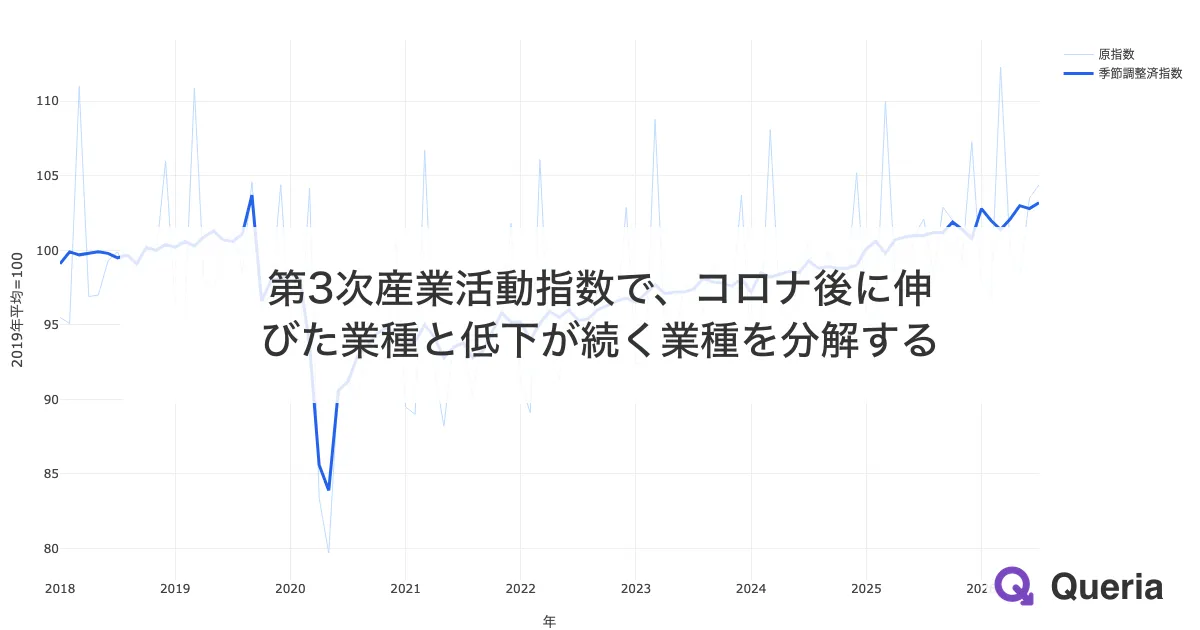
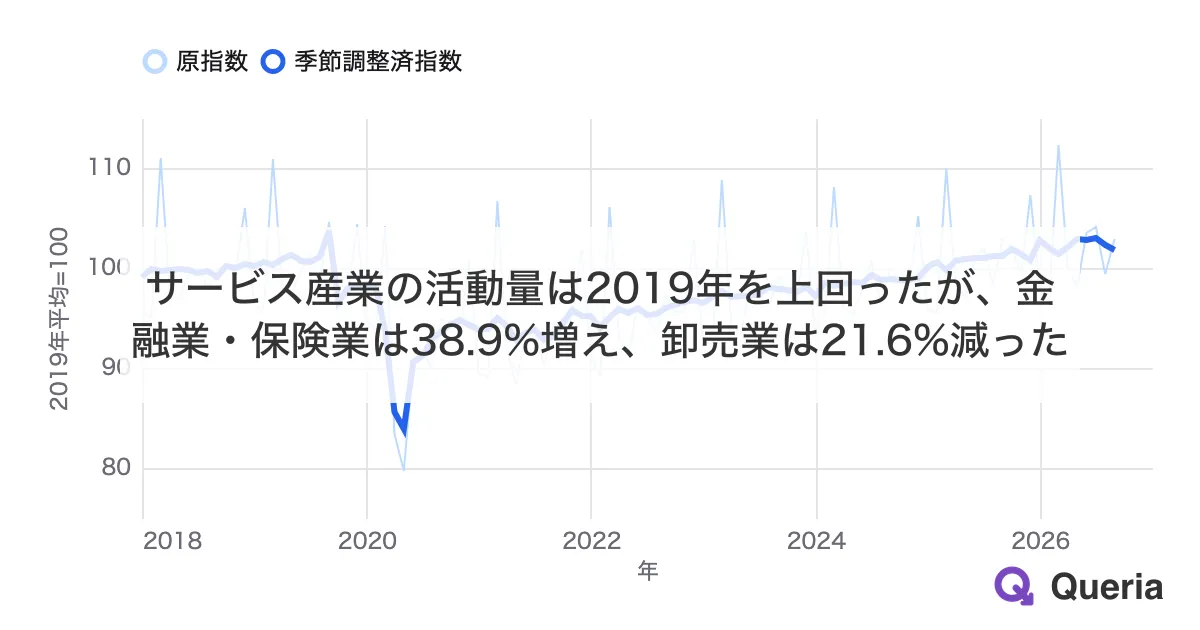
fix(showcase): 第3次産業活動指数の記事を2026年9月分まで更新
直近12か月を2025年10月〜2026年9月に延ばし、業種別の変化率・寄与・季節調整済指数の最新値・OG 画像を新しい値に合わせた。過去月の遡及改定も反映している。

diff --git a/content/showcase/tertiary-industry-divergence/index.md b/content/showcase/tertiary-industry-divergence/index.md
@@ -1,8 +1,8 @@
 ---
-title: サービス産業の活動量は2019年を上回ったが、金融業・保険業は37.0%増え、卸売業は21.3%減った
-description: 第3次産業活動指数の直近12か月（2025年8月〜2026年7月）は2019年平均を1.9%上回りました。業種別では金融業・保険業が37.0%増、卸売業は21.3%減で、13業種のうち2019年を上回るのは5業種です。
+title: サービス産業の活動量は2019年を上回ったが、金融業・保険業は38.9%増え、卸売業は21.6%減った
+description: 第3次産業活動指数の直近12か月（2025年10月〜2026年9月）は2019年平均を2.0ポイント上回りました。業種別では金融業・保険業が38.9%増、卸売業は21.6%減で、13業種のうち2019年を上回るのは5業種です。
 publishedAt: 2026-07-21
-updatedAt: 2026-11-21
+updatedAt: 2026-11-26
 author:
   name: UD
   url: https://udus.dev
@@ -24,15 +24,15 @@ sources:
     publisher: 経済産業省
 agentHint: 宿泊業・飲食サービス業の季節調整済指数を2018年以降の月次で出して。底がいつで直近どこまで戻ったかを、下がり続ける卸売業と並べて
 socialAnnounce: |-
-  経済産業省の第3次産業活動指数を103か月分数えました。
+  経済産業省の第3次産業活動指数の105か月分を集計しました。
 
-  直近12か月の全体は2019年平均を超えましたが、金融業・保険業が37.0%増の一方、卸売業は21.3%減でした。
+  直近12か月の全体は2019年平均を超えましたが、金融業・保険業が38.9%増の一方、卸売業は21.6%減でした。
   Queriaは行政のオープンデータを整えて公開しています。
 ---
 
-経済産業省の[第3次産業活動指数](https://www.meti.go.jp/statistics/tyo/sanzi/index.html)で、サービス産業全体の直近12か月（2025年8月〜2026年7月）の活動量は、2019年平均を1.9ポイント上回りました。13業種のうち2019年を上回っているのは5業種で、金融業・保険業は37.0%増、情報通信業は17.2%増です。卸売業・小売業は14.5%減で、2021年から4年続けて下がっています。その中でも卸売業は21.3%減、小売業は6.1%減でした。
+経済産業省の[第3次産業活動指数](https://www.meti.go.jp/statistics/tyo/sanzi/index.html)で、サービス産業全体の直近12か月（2025年10月〜2026年9月）の活動量は、2019年平均を2.0ポイント上回りました。13業種のうち2019年を上回っているのは5業種で、金融業・保険業は38.9%増、情報通信業は17.4%増です。卸売業・小売業は14.6%減で、2021年から4年続けて下がっています。その中でも卸売業は21.6%減、小売業は6.1%減でした。
 
-第3次産業活動指数は、サービス産業の活動量を月次で集計した統計です。全体値は2020年に大きく下がったあと回復しましたが、業種別に分けると、コロナで大きく下がった業種と、いま水準が低い業種は一致しません。以下の数値は、2018年1月から2026年7月までの103か月分の業種別の系列から求めたものです。
+第3次産業活動指数は、サービス産業の活動量を月次で集計した統計です。全体値は2020年に大きく下がったあと回復しましたが、業種別に分けると、コロナで大きく下がった業種と、いま水準が低い業種は一致しません。以下の数値は、2018年1月から2026年9月までの105か月分の業種別の系列から求めたものです。
 
 ## 13業種のウエイトは、卸売業・小売業だけで全体の4分の1近くを占める
 
@@ -41,7 +41,7 @@ socialAnnounce: |-
 Queriaのデータセットには大分類から細かい品目までが収録されています。このうち日本標準産業分類に対応した13業種と、その合計である「第3次産業総合」を使います。経済産業省が主系列としているのは日本標準産業分類を組み替えた10業種で、13業種は参考系列として公表されているものです。各業種には産業規模に応じたウエイトが与えられ、合計が10000になります。ウエイトは全体値を計算するときの重みであると同時に、その業種がサービス産業に占める大きさの目安にもなります。
 
 ```sql
-WITH j AS (SELECT item_name, weight, year_month, index_value FROM meti.main.tertiary_industry_activity_index WHERE series_type = 'original' AND item_code LIKE 'J%' AND item_code <> 'J000000I') SELECT item_name AS 業種, CAST(weight AS INTEGER) AS ウエイト, ROUND(AVG(CASE WHEN year_month BETWEEN '202508' AND '202607' THEN index_value END) / AVG(CASE WHEN year_month BETWEEN '201901' AND '201912' THEN index_value END) * 100 - 100, 1) AS '2019年平均比（%）' FROM j GROUP BY 1, weight ORDER BY weight DESC
+WITH j AS (SELECT item_name, weight, year_month, index_value FROM meti.main.tertiary_industry_activity_index WHERE series_type = 'original' AND item_code LIKE 'J%' AND item_code <> 'J000000I') SELECT item_name AS 業種, CAST(weight AS INTEGER) AS ウエイト, ROUND(AVG(CASE WHEN year_month BETWEEN '202510' AND '202609' THEN index_value END) / AVG(CASE WHEN year_month BETWEEN '201901' AND '201912' THEN index_value END) * 100 - 100, 1) AS '2019年平均比（%）' FROM j GROUP BY 1, weight ORDER BY weight DESC
 ```
 
 ウエイトは業種によって大きく異なります。卸売業・小売業だけで全体の4分の1近くを占め、最小の複合サービス事業とは3桁の開きがあります。
@@ -60,7 +60,7 @@ SELECT item_name AS 業種, ROUND(AVG(CASE WHEN year = 2019 THEN index_value END
 
 以降の数値は、すべての系列を2019年（暦年）の平均を100として基準化し直した水準です。
 
-## 季節調整済指数の底は2020年5月の83.9で、2026年7月は103.2
+## 季節調整済指数の底は2020年5月の83.9で、2026年9月は101.8
 
 このデータには、系列種別（`series_type`）として原指数（`original`）と季節調整済指数（`seasonally_adjusted`）の2つが収録されています。原指数は観測されたままの値で、季節調整済指数はそこから毎年繰り返す季節変動を取り除いた値です。全体値で両者を並べました。
 
@@ -162,7 +162,7 @@ SELECT item_name AS 業種, ROUND(AVG(CASE WHEN year = 2019 THEN index_value END
 
 薄い線の原指数は毎月上下に振れており、前月と比較しても、水準が変わったのか季節による変動なのかを判断できません。濃い線の季節調整済指数はこの振れを取り除いてあり、水準の変化だけが残ります。
 
-季節調整済指数で見ると、底は2020年5月の83.9でした。2019年平均より16.1%低い水準です。その後は緩やかに回復し、直近の2026年7月は103.2と、2019年平均を上回っています。
+季節調整済指数で見ると、底は2020年5月の83.9でした。2019年平均より16.1%低い水準です。その後は緩やかに回復し、直近の2026年9月は101.8と、2019年平均を上回っています。
 
 ここで使っている全体値は、業種別の季節調整済指数を加重平均した「第3次産業総合」（`K1D000000I`）で、経済産業省が公表値としている系列です。[統計の概要](https://www.meti.go.jp/statistics/tyo/sanzi/gaiyo.html)のとおり、当月分の公表時に過去3か月分が遡って計算し直され、毎年2月分の公表時には前年の1年分がまとめて補正されます。2026年の各月の値は、まだ確定していません。
 
@@ -276,7 +276,7 @@ WITH b AS (SELECT item_code, AVG(index_value) AS base FROM meti.main.tertiary_in
 
 ## 13業種のうち、2019年の水準を上回るのは5業種
 
-直近12か月（2025年8月〜2026年7月）の平均を、2019年の平均と比較します。
+直近12か月（2025年10月〜2026年9月）の平均を、2019年の平均と比較します。
 
 ```chart
 {
@@ -309,15 +309,15 @@ WITH b AS (SELECT item_code, AVG(index_value) AS base FROM meti.main.tertiary_in
 }
 ```
 
-13業種のうち、2019年の水準を上回っているのは5業種です。金融業・保険業が37.0%増と突出し、情報通信業が17.2%増、その他サービス業が12.7%増、医療・福祉が11.6%増、不動産業・物品賃貸業が2.2%増です。
+13業種のうち、2019年の水準を上回っているのは5業種です。金融業・保険業が38.9%増と突出し、情報通信業が17.4%増、その他サービス業が12.6%増、医療・福祉が12.5%増、不動産業・物品賃貸業が1.8%増です。
 
-下側では、学習支援業が19.7%減、複合サービス事業が17.1%減、卸売業・小売業が14.5%減となっています。宿泊業・飲食サービス業は9.6%減、運輸業・郵便業は9.0%減で、いずれもまだ2019年の水準に届いていません。
+下側では、学習支援業が20.5%減、複合サービス事業が16.7%減、卸売業・小売業が14.6%減となっています。宿泊業・飲食サービス業は9.9%減、運輸業・郵便業は9.5%減で、いずれもまだ2019年の水準に届いていません。
 
 下位に並ぶ業種の性格は一様ではありません。宿泊業・飲食サービス業は2020年に3割近く落ちた業種ですが、卸売業・小売業の2020年の落ち込みは全体とほぼ同じ程度で、2021年に横ばいとなったあと下がり続けた業種です。
 
 ## 卸売業・小売業は2021年から4年続けて下がり、その大半は卸売業
 
-代表的な業種について、2018年からの年平均の推移をたどります。2026年はまだ7か月分なので、年平均は2025年までです。
+代表的な業種について、2018年からの年平均の推移をたどります。2026年はまだ9か月分なので、年平均は2025年までです。
 
 ```chart
 {
@@ -621,18 +621,18 @@ WITH b AS (SELECT item_code, AVG(index_value) AS base FROM meti.main.tertiary_in
 「卸売業、小売業」の大分類の下には、卸売業と小売業が別々の系列として収録されています。2つを分けて、大分類の値と並べました。
 
 ```sql
-WITH b AS (SELECT item_code, AVG(index_value) AS base FROM meti.main.tertiary_industry_activity_index WHERE series_type = 'original' AND year = 2019 GROUP BY 1) SELECT t.item_name AS 業種, ROUND(AVG(CASE WHEN t.year = 2020 THEN t.index_value / b.base * 100 END), 1) AS '2020年', ROUND(AVG(CASE WHEN t.year_month BETWEEN '202508' AND '202607' THEN t.index_value / b.base * 100 END), 1) AS '直近12か月' FROM meti.main.tertiary_industry_activity_index t JOIN b USING (item_code) WHERE t.series_type = 'original' AND t.item_code IN ('K1D000000I', 'JI00000I', 'DD00000I', 'DG00000I') GROUP BY 1 ORDER BY 3
+WITH b AS (SELECT item_code, AVG(index_value) AS base FROM meti.main.tertiary_industry_activity_index WHERE series_type = 'original' AND year = 2019 GROUP BY 1) SELECT t.item_name AS 業種, ROUND(AVG(CASE WHEN t.year = 2020 THEN t.index_value / b.base * 100 END), 1) AS '2020年', ROUND(AVG(CASE WHEN t.year_month BETWEEN '202510' AND '202609' THEN t.index_value / b.base * 100 END), 1) AS '直近12か月' FROM meti.main.tertiary_industry_activity_index t JOIN b USING (item_code) WHERE t.series_type = 'original' AND t.item_code IN ('K1D000000I', 'JI00000I', 'DD00000I', 'DG00000I') GROUP BY 1 ORDER BY 3
 ```
 
-低下の大半は卸売業で起きています。卸売業は2019年平均を100として直近12か月が78.7で、21.3%低い水準です。小売業は93.9で6.1%減にとどまります。「卸売業、小売業」の85.5は、動きの違う2つの業種を平均した値です。
+低下の大半は卸売業で起きています。卸売業は2019年平均を100として直近12か月が78.4で、21.6%低い水準です。小売業は93.9で6.1%減にとどまります。「卸売業、小売業」の85.4は、動きの違う2つの業種を平均した値です。
 
 小売業は最終消費者への販売、卸売業は企業間の取引です。指数の上では、消費者への販売よりも企業間で取引される量のほうが大きく減っています。卸売業の指数は、商業動態統計の販売額を日本銀行の企業物価指数（輸入物価を含む）で割って作られています（[2020年基準改定の概要](https://www.meti.go.jp/statistics/tyo/sanzi/result/pdf/b2020_ITA_ovvj.pdf)の附表1）。販売額が伸びても、物価指数の上昇がそれを上回れば、指数には物量の減少として出ます。
 
 2019年を上回っている2業種では、金融業・保険業（青）は2020年も100.7とほとんど下がらず、以降は毎年上昇して2025年に126.8まで達しました。情報通信業（緑）は2020年に97.0まで下がったものの2022年には2019年を超え、2025年は115.6です。
 
-このグラフは暦年の平均なので、先ほどの直近12か月（2025年8月〜2026年7月）の数値とは範囲が違います。金融業・保険業は暦年2025年が26.8%増、直近12か月では37.0%増と、暦年2025年より高い水準にあります。
+このグラフは暦年の平均なので、先ほどの直近12か月（2025年10月〜2026年9月）の数値とは範囲が違います。金融業・保険業は暦年2025年が26.8%増、直近12か月では38.9%増と、暦年2025年より高い水準にあります。
 
-## 全体値を最も押し下げたのは卸売業・小売業の3.49ポイント
+## 全体値を最も押し下げたのは卸売業・小売業の3.53ポイント
 
 業種ごとの変化が全体値をどれだけ動かしたかを分解します。各業種の指数の変化幅にウエイトを掛けて10000で割ると、全体値の変化に対する寄与が求められます。すべての業種の寄与を足し合わせると、全体値の変化幅になります。
 
@@ -667,23 +667,23 @@ WITH b AS (SELECT item_code, AVG(index_value) AS base FROM meti.main.tertiary_in
 }
 ```
 
-全体値は2019年平均を100として直近12か月が101.9で、変化幅は1.9ポイントでした。この内訳を見ると、押し上げ側は金融業・保険業が2.83ポイント、情報通信業が1.95ポイント、医療・福祉が1.33ポイント、その他サービス業が0.97ポイントです。
+全体値は2019年平均を100として直近12か月が102.0で、変化幅は2.0ポイントでした。この内訳を見ると、押し上げ側は金融業・保険業が2.97ポイント、情報通信業が1.97ポイント、医療・福祉が1.44ポイント、その他サービス業が0.95ポイントです。
 
-押し下げ側で最も大きいのは卸売業・小売業の3.49ポイントで、他のすべての押し下げ要因を合計した1.92ポイントより大きくなっています。変化率では学習支援業の19.7%減が最大でしたが、ウエイトが103しかないため寄与は0.21ポイントにとどまります。卸売業・小売業は14.5%減と率では3番目ですが、ウエイト2409を通じて全体値を最も強く押し下げています。
+押し下げ側で最も大きいのは卸売業・小売業の3.53ポイントで、他のすべての押し下げ要因を合計した約2.0ポイントより大きくなっています。変化率では学習支援業の20.5%減が最大でしたが、ウエイトが103しかないため寄与は0.22ポイントにとどまります。卸売業・小売業は14.6%減と率では3番目ですが、ウエイト2409を通じて全体値を最も強く押し下げています。
 
-全体値の1.9ポイントの上昇は、押し上げ側の合計7.33ポイントと押し下げ側の合計5.41ポイントの差し引きです。金融業・保険業と情報通信業の2業種だけで4.78ポイントあり、卸売業・小売業の3.49ポイントの押し下げを上回っています。
+全体値の2.0ポイントの上昇は、押し上げ側の合計7.54ポイントと押し下げ側の合計5.56ポイントの差し引きです。金融業・保険業と情報通信業の2業種だけで4.94ポイントあり、卸売業・小売業の3.53ポイントの押し下げを上回っています。
 
 ## まとめ
 
-- 直近12か月の全体値は2019年平均を1.9ポイント上回るが、13業種のうち2019年を上回るのは5業種で、上昇の大半は金融業・保険業と情報通信業によるもの
-- 卸売業・小売業は2021年から4年続けて下がり、全体値を3.49ポイント押し下げている。その中身は卸売業の21.3%減で、小売業は6.1%減にとどまる
-- 変化率と全体への寄与は順位が一致しない。率で最大の下げの学習支援業は、寄与では0.21ポイントにとどまる
+- 直近12か月の全体値は2019年平均を2.0ポイント上回るが、13業種のうち2019年を上回るのは5業種で、上昇の大半は金融業・保険業と情報通信業によるもの
+- 卸売業・小売業は2021年から4年続けて下がり、全体値を3.53ポイント押し下げている。その中身は卸売業の21.6%減で、小売業は6.1%減にとどまる
+- 変化率と全体への寄与は順位が一致しない。率で最大の下げの学習支援業は、寄与では0.22ポイントにとどまる
 
-全体値が2019年を1.9ポイント上回る同じ12か月に、卸売業の指数は2019年より21.3%低い水準にあります。企業間の取引に関わる事業者には、全体値の回復はそのまま当てはまりません。
+全体値が2019年を2.0ポイント上回る同じ12か月に、卸売業の指数は2019年より21.6%低い水準にあります。企業間の取引に関わる事業者には、全体値の回復はそのまま当てはまりません。
 
 ## データの出典
 
-本記事は経済産業省の[第3次産業活動指数](https://www.meti.go.jp/statistics/tyo/sanzi/index.html)（2020年基準）の月次系列を、2026年10月14日時点で集計しています。対象期間は2018年1月から2026年7月までの103か月で、全国値のみです。基準時とウエイト、卸売業のデフレータは[2020年基準改定の概要](https://www.meti.go.jp/statistics/tyo/sanzi/result/pdf/b2020_ITA_ovvj.pdf)、遡及改定と年間補正は[統計の概要](https://www.meti.go.jp/statistics/tyo/sanzi/gaiyo.html)によります。
+本記事は経済産業省の[第3次産業活動指数](https://www.meti.go.jp/statistics/tyo/sanzi/index.html)（2020年基準）の月次系列を、2026年11月26日時点で集計しています。対象期間は2018年1月から2026年9月までの105か月で、全国値のみです。基準時とウエイト、卸売業のデフレータは[2020年基準改定の概要](https://www.meti.go.jp/statistics/tyo/sanzi/result/pdf/b2020_ITA_ovvj.pdf)、遡及改定と年間補正は[統計の概要](https://www.meti.go.jp/statistics/tyo/sanzi/gaiyo.html)によります。
 
 Queriaは、経済産業省の第3次産業活動指数を、原指数と季節調整済指数を同じテーブルにまとめ、業種コード・業種名・ウエイトを列に持たせた形で公開しています。本記事で使った[第3次産業活動指数のテーブル](/datasets/queria/meti/main/tertiary_industry_activity_index)から、大分類の下にある細かい品目まで降りて、自分の業界に近い系列の動きを確認できます。
 
@@ -696,7 +696,7 @@ WITH b AS (SELECT item_code, AVG(index_value) AS base FROM meti.main.tertiary_in
 ```
 
 ```sql id=change_rate
-WITH j AS (SELECT item_name, year_month, index_value FROM meti.main.tertiary_industry_activity_index WHERE series_type = 'original' AND item_code LIKE 'J%' AND item_code <> 'J000000I') SELECT item_name, ROUND(AVG(CASE WHEN year_month BETWEEN '202508' AND '202607' THEN index_value END) / AVG(CASE WHEN year_month BETWEEN '201901' AND '201912' THEN index_value END) * 100 - 100, 1) AS pct FROM j GROUP BY 1 ORDER BY pct DESC
+WITH j AS (SELECT item_name, year_month, index_value FROM meti.main.tertiary_industry_activity_index WHERE series_type = 'original' AND item_code LIKE 'J%' AND item_code <> 'J000000I') SELECT item_name, ROUND(AVG(CASE WHEN year_month BETWEEN '202510' AND '202609' THEN index_value END) / AVG(CASE WHEN year_month BETWEEN '201901' AND '201912' THEN index_value END) * 100 - 100, 1) AS pct FROM j GROUP BY 1 ORDER BY pct DESC
 ```
 
 ```sql id=yearly
@@ -704,5 +704,5 @@ WITH b AS (SELECT item_code, AVG(index_value) AS base FROM meti.main.tertiary_in
 ```
 
 ```sql id=contribution
-WITH tb AS (SELECT AVG(index_value) AS base FROM meti.main.tertiary_industry_activity_index WHERE item_code = 'K1D000000I' AND series_type = 'original' AND year = 2019), j AS (SELECT item_name, weight, year_month, index_value FROM meti.main.tertiary_industry_activity_index WHERE series_type = 'original' AND item_code LIKE 'J%' AND item_code <> 'J000000I') SELECT j.item_name, ROUND((AVG(CASE WHEN year_month BETWEEN '202508' AND '202607' THEN index_value END) - AVG(CASE WHEN year_month BETWEEN '201901' AND '201912' THEN index_value END)) * weight / 10000 / tb.base * 100, 2) AS contrib FROM j CROSS JOIN tb GROUP BY j.item_name, weight, tb.base ORDER BY contrib DESC
+WITH tb AS (SELECT AVG(index_value) AS base FROM meti.main.tertiary_industry_activity_index WHERE item_code = 'K1D000000I' AND series_type = 'original' AND year = 2019), j AS (SELECT item_name, weight, year_month, index_value FROM meti.main.tertiary_industry_activity_index WHERE series_type = 'original' AND item_code LIKE 'J%' AND item_code <> 'J000000I') SELECT j.item_name, ROUND((AVG(CASE WHEN year_month BETWEEN '202510' AND '202609' THEN index_value END) - AVG(CASE WHEN year_month BETWEEN '201901' AND '201912' THEN index_value END)) * weight / 10000 / tb.base * 100, 2) AS contrib FROM j CROSS JOIN tb GROUP BY j.item_name, weight, tb.base ORDER BY contrib DESC
 ```
